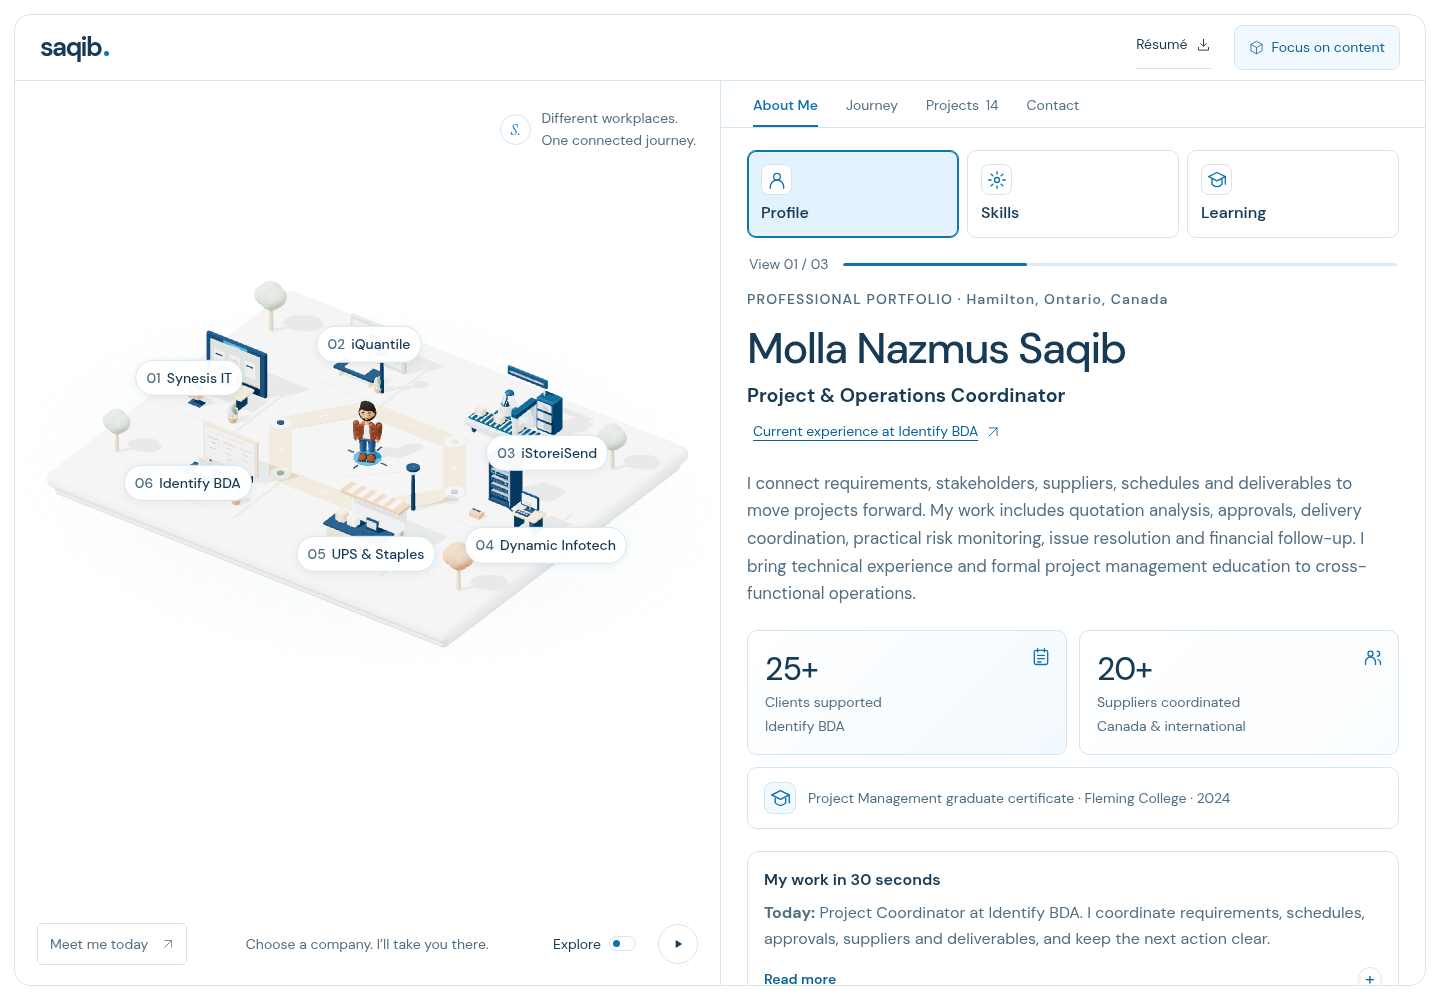
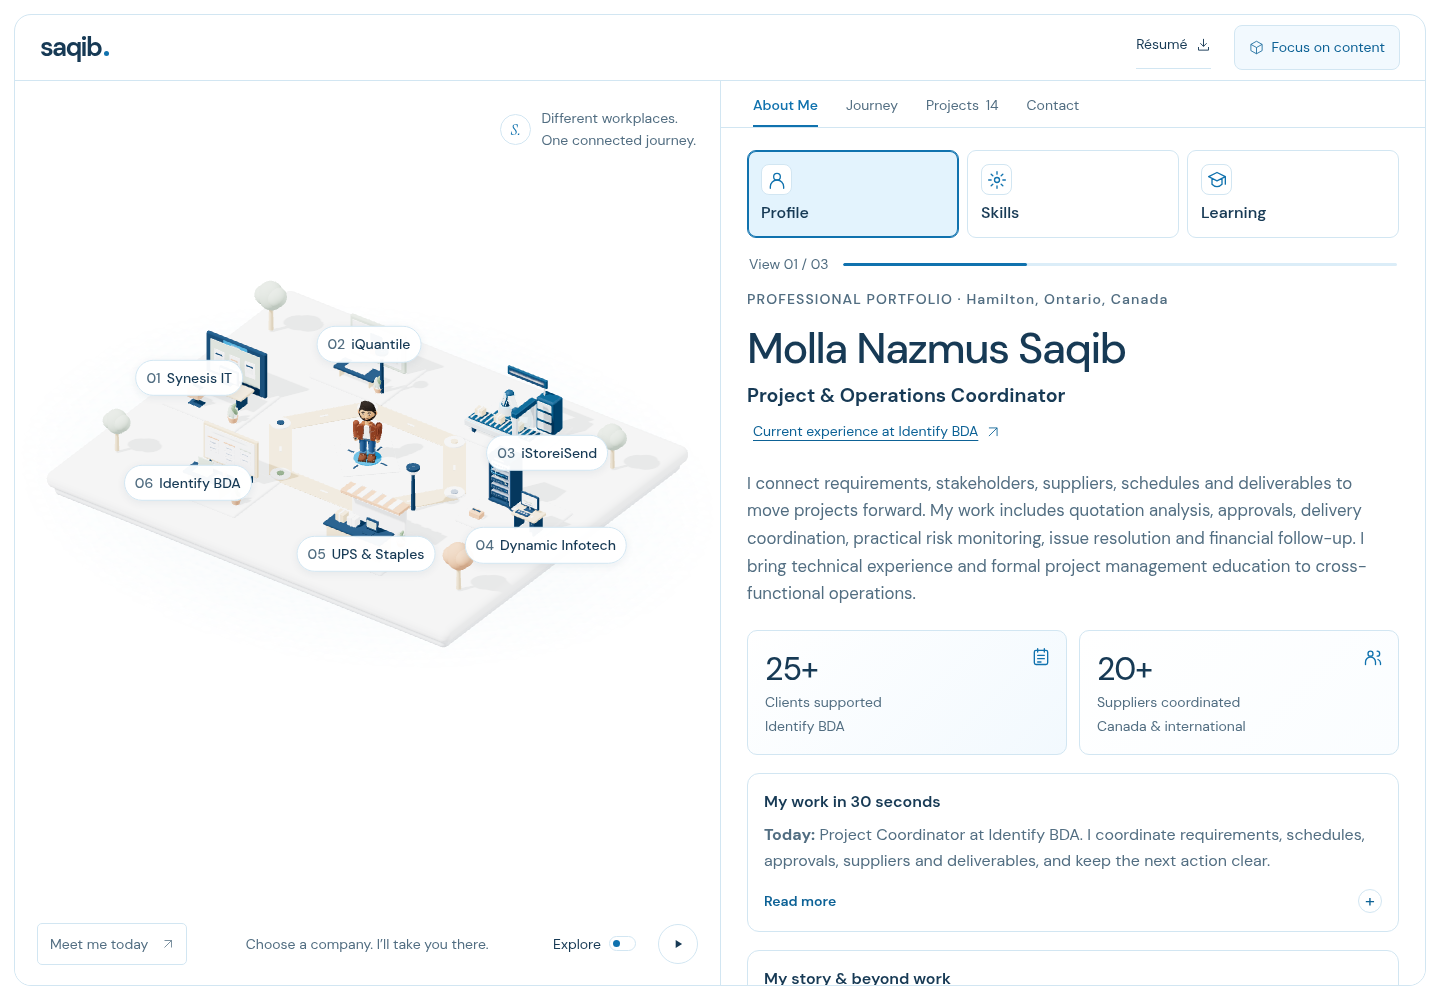
Remove certificate card from About Me overview

Changed region(s): [[0.5312, 0.775, 0.9375, 0.992]]

diff --git a/src/recruiter-view.js b/src/recruiter-view.js
@@ -4,7 +4,6 @@ const arrow = '<svg viewBox="0 0 24 24" fill="none" aria-hidden="true"><path d="
 const evidenceIcons = {
   clients: '<rect x="4" y="4" width="16" height="17" rx="2"/><path d="M8 2v4m8-4v4M8 10h8m-8 4h8m-8 4h4"/>',
   suppliers: '<circle cx="9" cy="8" r="3"/><path d="M3 21v-3a6 6 0 0 1 12 0v3m2-16a3 3 0 0 1 0 6m1 4a5 5 0 0 1 3 4v2"/>',
-  learning: '<path d="m2 8 10-5 10 5-10 5-10-5Zm4 2v7c4 4 8 4 12 0v-7m4-2v9"/>',
 };
 const evidenceIcon = name => `<svg viewBox="0 0 24 24" fill="none" stroke="currentColor" stroke-width="1.6" stroke-linecap="round" stroke-linejoin="round" aria-hidden="true">${evidenceIcons[name]}</svg>`;
 
@@ -22,7 +21,6 @@ export function renderProfessionalOverview({ aboutMe, professionalSummary }) {
     <button class="professional-current" type="button" data-current-experience>Current experience at Identify BDA ${arrow}</button>
     <p class="professional-summary">${esc(professionalSummary.body)}</p>
     <ul class="professional-evidence" aria-label="Current Identify BDA experience"><li><span class="professional-evidence-icon">${evidenceIcon('clients')}</span><strong>25+</strong><span>Clients supported</span><small>Identify BDA</small></li><li><span class="professional-evidence-icon">${evidenceIcon('suppliers')}</span><strong>20+</strong><span>Suppliers coordinated</span><small>Canada &amp; international</small></li></ul>
-    <p class="professional-credential"><span class="professional-credential-icon">${evidenceIcon('learning')}</span><span>Project Management graduate certificate · Fleming College · 2024</span></p>
     <details class="professional-quick-view"><summary><span class="profile-preview-title">My work in 30 seconds</span><span class="profile-preview-excerpt"><strong>Today:</strong> Project Coordinator at Identify BDA. I coordinate requirements, schedules, approvals, suppliers and deliverables, and keep the next action clear.</span><span class="profile-preview-toggle"><span class="profile-preview-expand">Read more</span><span class="profile-preview-collapse">Show less</span><span class="profile-preview-icon" aria-hidden="true">+</span></span></summary><div>
       <ul><li><strong>Complex delivery:</strong> coordinated an approximately $55,000 conference project with eight vendors over three weeks.</li><li><strong>Continuity:</strong> supported 25+ clients, including approximately 15 repeat clients.</li><li><strong>Issue resolution:</strong> helped resolve an incorrect item without delaying the conference.</li></ul>
       <p><strong>Risk awareness:</strong> I note relevant concerns in Trello card descriptions and discuss dependencies or practical options with the CEO or suppliers when needed.</p>

diff --git a/src/recruiter-view.css b/src/recruiter-view.css
@@ -70,10 +70,6 @@
 .static-overview a { text-decoration:underline; text-underline-offset:3px; }
 
 .professional-evidence small { color:#526E82; font-size:.875rem; line-height:1.4; }
-.professional-credential { display:flex; align-items:center; gap:12px; margin:0 0 22px; padding:14px 16px; border:1px solid #D2E6F2; border-radius:10px; background:#FFFFFF; color:#526E82; font-size:.875rem; line-height:1.6; }
-.professional-credential-icon { display:grid; place-items:center; flex-shrink:0; width:32px; height:32px; border:1px solid #D2E6F2; border-radius:8px; background:#F2F9FE; color:#1072AE; }
-.professional-credential-icon>svg { width:21px; height:21px; }
-.professional-credential>span:last-child { min-width:0; }
 .shell-header .view-toggle { padding:10px 14px; border:1px solid #D2E6F2; border-radius:8px; background:#F2F9FE; color:#0D6296; }
 .project-group+ .project-group { margin-top:22px; }
 .project-group>h2 { font-size:1.25rem; line-height:1.4; margin:0 0 6px; color:#173A55; }
